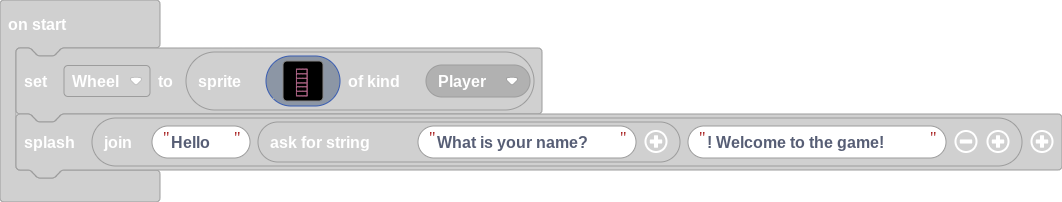
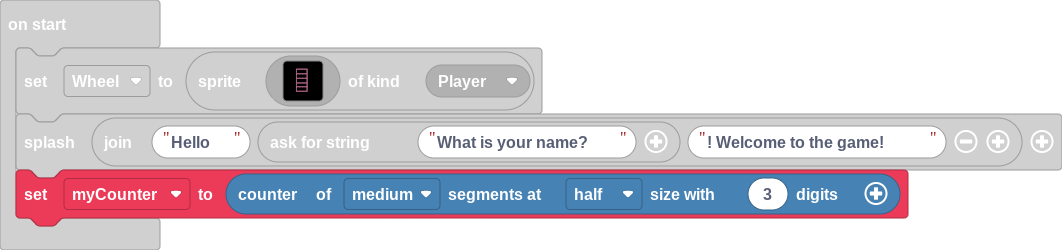
Update main.blocks, main.ts

diff --git a/main.ts b/main.ts
@@ -43,3 +43,4 @@ let Wheel = sprites.create(img`
     ................................
     `, SpriteKind.Player)
 game.splash("Hello " + game.askForString("What is your name?") + "! Welcome to the game!")
+let myCounter = sevenseg.createCounter(SegmentStyle.Medium, SegmentScale.Half, 3)
